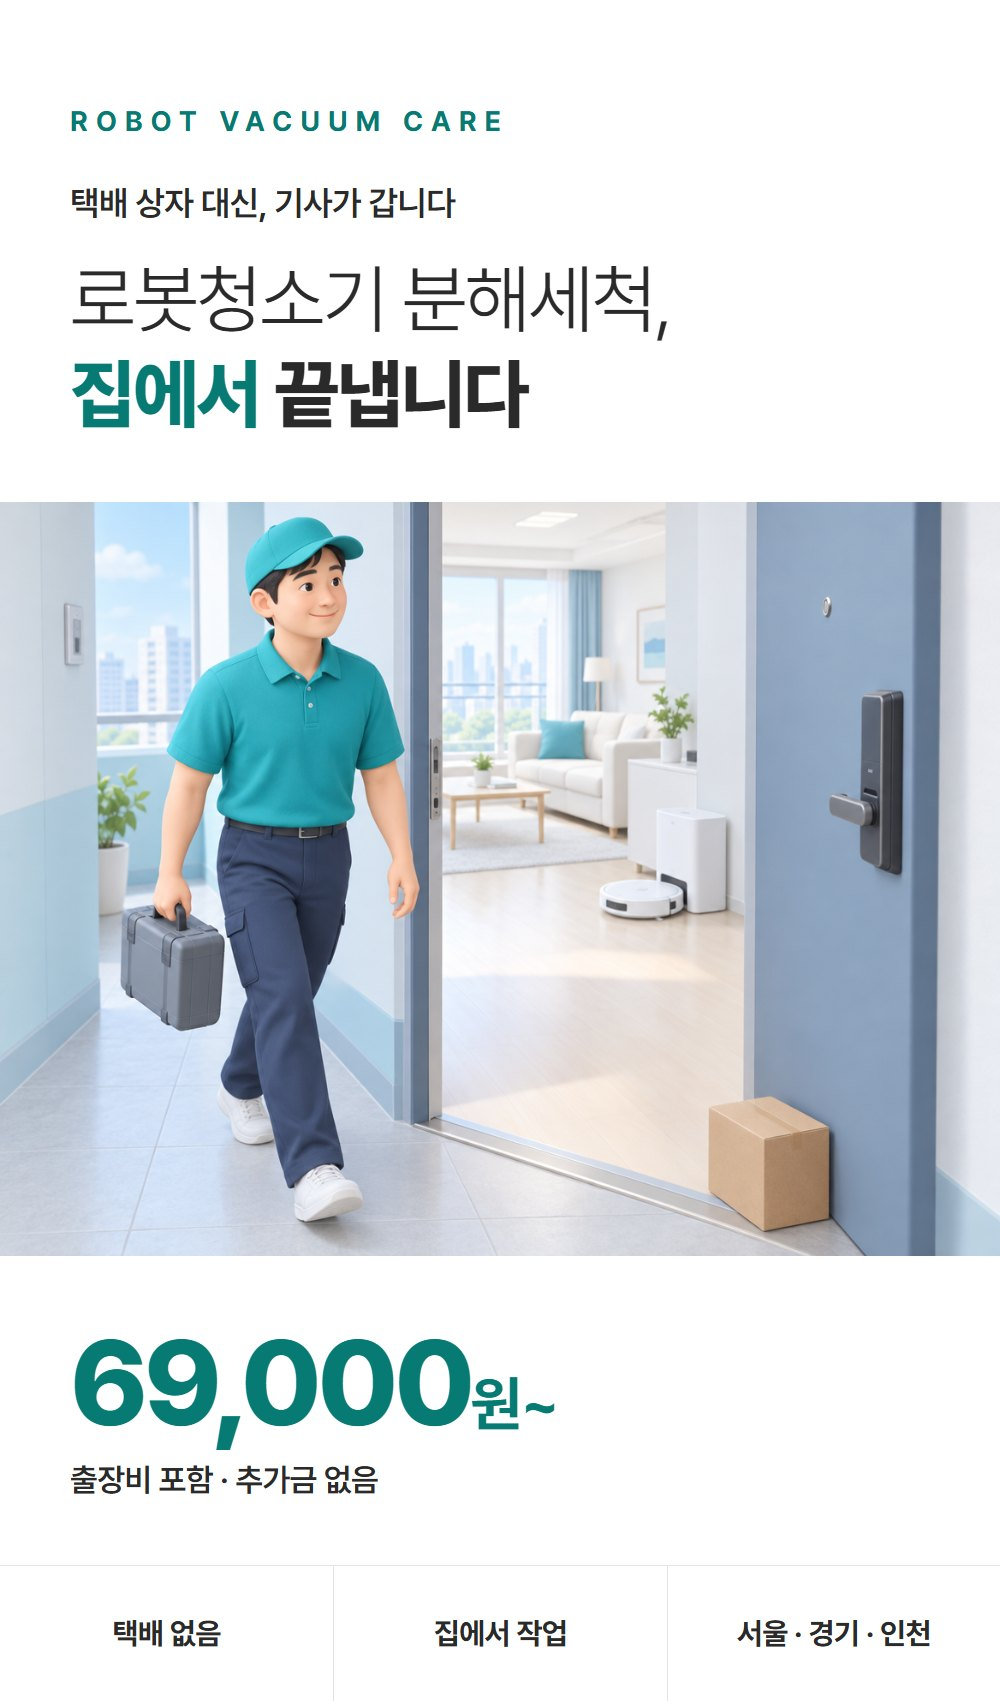
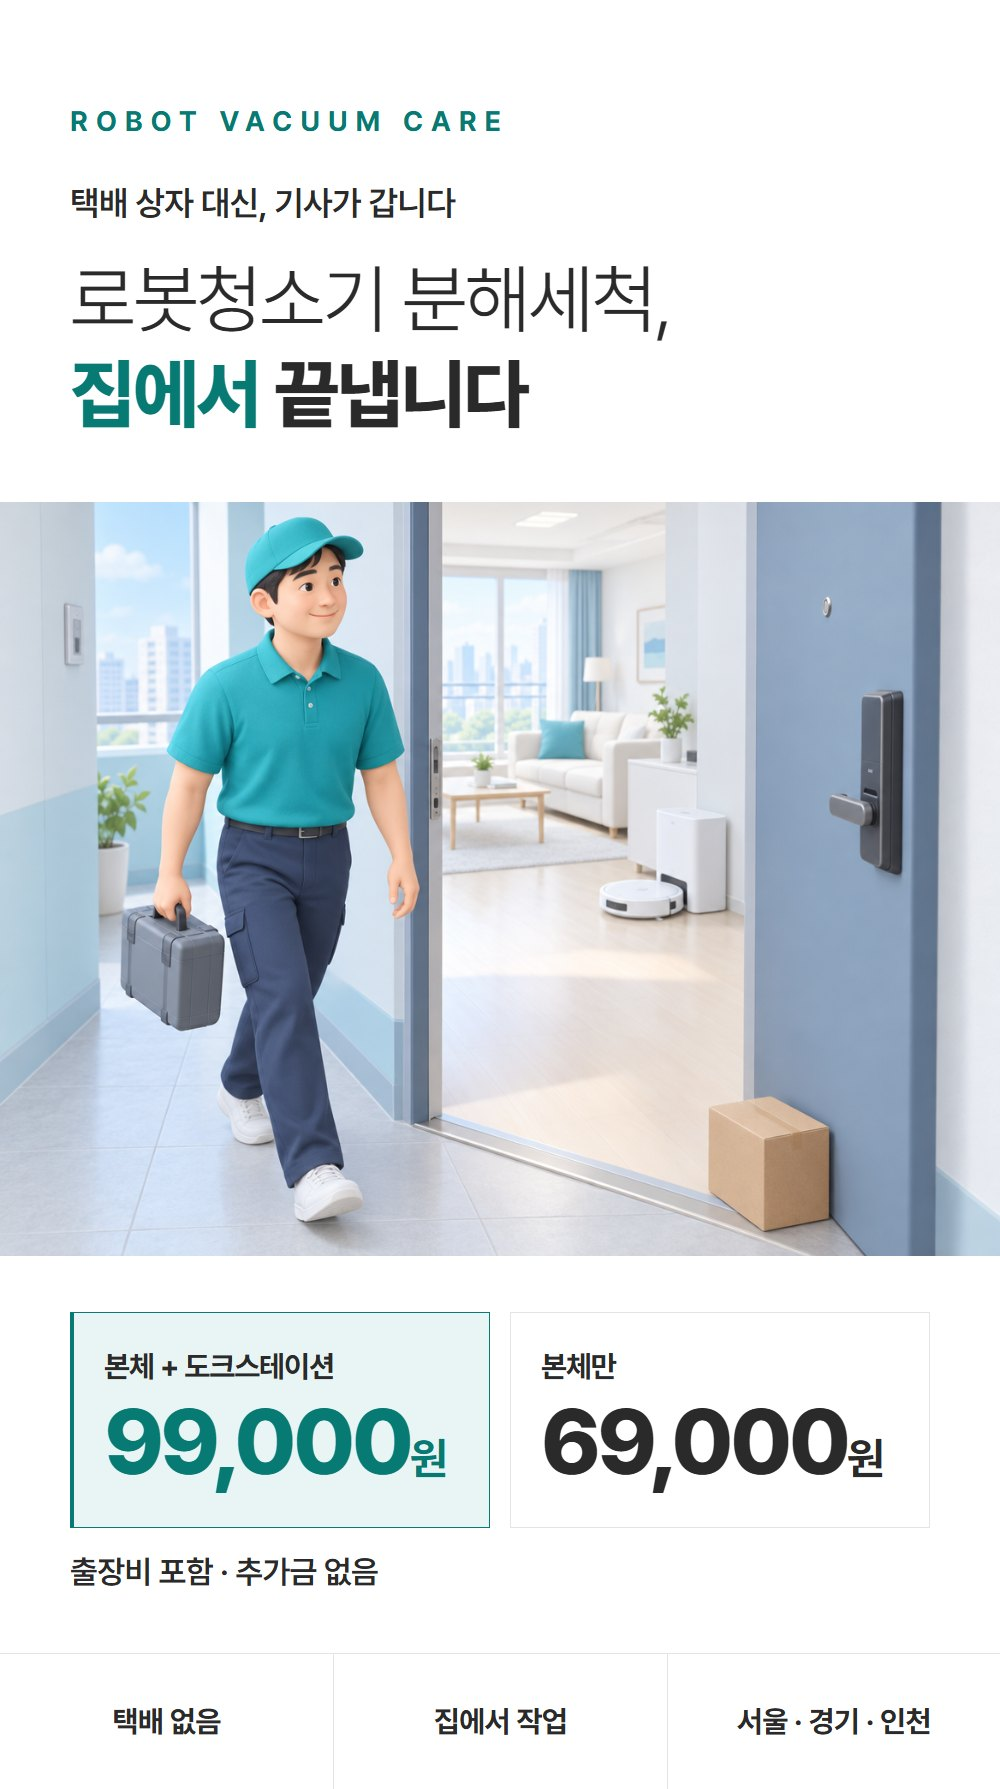
feat(landing): 로봇청소기 랜딩 주력 코스를 본체 + 도크스테이션 99,000원으로 변경
- robot.html: 제목 · 설명 · 대체 문구를 99,000 먼저로, 폼 세척 범위 순서 dock → body → ask
- 섹션 이미지 s1 · s2 · s5 · s7 · s10 · s11 · s12 · s13 다시 제작
  - 가격 두 칸은 같은 크기, 99,000 쪽만 색 · 바탕 · 테두리로 강조
  - s10 · s11 은 선 그림 분해도 + 지시선, s7 은 2단 비교

diff --git a/public/robot.html b/public/robot.html
@@ -3,11 +3,11 @@
 <head>
 <meta charset="utf-8">
 <meta name="viewport" content="width=device-width,initial-scale=1,viewport-fit=cover">
-<title>올데이케어 로봇청소기 분해세척 | 집으로 방문 · 69,000원 출장비 포함</title>
-<meta name="description" content="로봇청소기 분해세척, 택배 없이 기사가 집으로 방문합니다. 본체 69,000원, 본체 + 도크스테이션 99,000원. 출장비 포함 추가금 없음. 서울 · 경기 · 인천 1866-2003">
+<title>올데이케어 로봇청소기 분해세척 | 도크스테이션까지 99,000원 · 집으로 방문</title>
+<meta name="description" content="로봇청소기 분해세척, 택배 없이 기사가 집으로 방문합니다. 본체 + 도크스테이션 99,000원, 본체만 69,000원. 출장비 포함 추가금 없음. 서울 · 경기 · 인천 1866-2003">
 <meta name="robots" content="noindex">
-<meta property="og:title" content="로봇청소기 분해세척 — 기사가 집으로 갑니다 · 69,000원">
-<meta property="og:description" content="택배 없이 방문 분해세척. 본체 69,000원 / 본체 + 도크스테이션 99,000원. 출장비 포함.">
+<meta property="og:title" content="로봇청소기 분해세척 — 스테이션까지 집에서 99,000원">
+<meta property="og:description" content="택배 없이 방문 분해세척. 본체 + 도크스테이션 99,000원 / 본체만 69,000원. 출장비 포함.">
 <link rel="stylesheet" href="https://cdn.jsdelivr.net/npm/pretendard@1.3.9/dist/web/static/pretendard.min.css">
 <style>
 :root{--point:#0E9C94;--deep:#087A74;--dark:#05605B;--soft:#E9F5F4;--ink:#2A2A2A;--line:#E4E4E1;--sub:#8A8A86}
@@ -103,7 +103,7 @@ footer b{color:#4A5263}
 </header>
 
 <!-- 이미지 파일: public/img/robot/s1.jpg ~ s13.jpg -->
-<div class="sec" data-img="img/robot/s1.jpg" data-alt="로봇청소기 분해세척, 택배 상자 대신 기사가 갑니다. 집으로 방문, 본체 69,000원, 출장비 포함" data-label="S1 히어로"></div>
+<div class="sec" data-img="img/robot/s1.jpg" data-alt="로봇청소기 분해세척, 택배 상자 대신 기사가 갑니다. 집으로 방문, 본체와 도크스테이션 99,000원, 출장비 포함" data-label="S1 히어로"></div>
 
 <a class="tel-band" href="tel:18662003">
   <span class="ico"><i></i><svg width="26" height="26" viewBox="0 0 24 24" fill="#087A74"><path d="M6.6 10.8a15.1 15.1 0 0 0 6.6 6.6l2.2-2.2a1 1 0 0 1 1-.25 11.4 11.4 0 0 0 3.6.57 1 1 0 0 1 1 1V20a1 1 0 0 1-1 1A17 17 0 0 1 3 4a1 1 0 0 1 1-1h3.5a1 1 0 0 1 1 1c0 1.25.2 2.45.57 3.57a1 1 0 0 1-.25 1z"/></svg></span>
@@ -119,7 +119,7 @@ footer b{color:#4A5263}
       <div class="f2">
         <div class="f"><label>성함</label><input name="name" autocomplete="name" placeholder="홍길동"></div>
         <div class="f"><label>세척 범위</label>
-          <select name="svc"><option value="">선택해 주세요</option><option value="body">본체만 69,000원</option><option value="dock">본체 + 도크스테이션 99,000원</option><option value="ask">잘 모르겠어요</option></select></div>
+          <select name="svc"><option value="">선택해 주세요</option><option value="dock">본체 + 도크스테이션 99,000원 (추천)</option><option value="body">본체만 69,000원</option><option value="ask">잘 모르겠어요</option></select></div>
       </div>
       <div class="f"><label>연락처</label><input name="phone" type="tel" inputmode="numeric" autocomplete="tel" placeholder="010-0000-0000"></div>
       <div class="f2">
@@ -135,7 +135,7 @@ footer b{color:#4A5263}
   </div>
 </section>
 
-<div class="sec" data-img="img/robot/s2.jpg" data-alt="가격. 로봇청소기 본체 69,000원, 본체와 도크스테이션 99,000원. 출장비 포함, 추가금 없음. 서울 경기 인천. 브랜드 상관없이 방문" data-label="S2 가격"></div>
+<div class="sec" data-img="img/robot/s2.jpg" data-alt="가격. 추천 코스 본체와 도크스테이션 99,000원, 본체만 69,000원. 출장비 포함, 추가금 없음. 서울 경기 인천. 브랜드 상관없이 방문" data-label="S2 가격"></div>
 <div class="sec" data-img="img/robot/s3.jpg" data-alt="요즘 이런 순간 있으신가요. 돌고 나면 쿰쿰한 냄새, 소리는 큰데 먼지가 그대로, 스테이션을 열면 쉰내" data-label="S3 프롤로그 질문"></div>
 <div class="sec" data-img="img/robot/s4.jpg" data-alt="매일 바닥을 닦는 로봇청소기, 그 속은 누가 닦나요. 먼지와 머리카락과 물때가 안쪽에 쌓입니다" data-label="S4 왜 필요한가 1 단면"></div>
 <div class="sec" data-img="img/robot/s5.jpg" data-alt="속을 열어보면. 브러시에 감긴 머리카락, 막힌 필터, 냄새나는 물걸레, 오수통 찌꺼기" data-label="S5 왜 필요한가 2 속"></div>
@@ -152,7 +152,7 @@ footer b{color:#4A5263}
   <span><small>출장비 포함 · 서울 경기 인천</small><b>1866-2003</b></span>
 </a>
 <div class="sec" data-img="img/robot/s10.jpg" data-alt="본체 분해도. 메인브러시, 사이드브러시, 먼지통, 필터, 물걸레 패드, 바퀴, 센서 창과 충전 단자" data-label="S10 본체 분해도"></div>
-<div class="sec" data-img="img/robot/s11.jpg" data-alt="도크스테이션 분해도. 오수통, 청수통, 먼지 비움 통로, 세척 트레이. 본체와 함께 99,000원" data-label="S11 스테이션 분해도"></div>
+<div class="sec" data-img="img/robot/s11.jpg" data-alt="냄새의 시작은 대부분 스테이션입니다. 오수통, 청수통, 먼지 비움 통로, 세척 트레이. 30,000원 더하면 스테이션까지, 본체와 함께 99,000원" data-label="S11 스테이션 분해도"></div>
 <div class="sec" data-img="img/robot/s12.jpg" data-alt="세척 전후 비교. 이해를 돕기 위한 연출 이미지입니다" data-label="S12 전후"></div>
 <div class="sec" data-img="img/robot/s13.jpg" data-alt="그날 저녁, 로봇청소기가 다시 거실을 돕니다. 이번엔 냄새 없이. 올데이케어의 약속, 이번 주에 집으로 부르세요" data-label="S13 에필로그 · 약속"></div>
 
@@ -165,7 +165,7 @@ footer b{color:#4A5263}
       <div class="f2">
         <div class="f"><label>성함</label><input name="name" autocomplete="name" placeholder="홍길동"></div>
         <div class="f"><label>세척 범위</label>
-          <select name="svc"><option value="">선택해 주세요</option><option value="body">본체만 69,000원</option><option value="dock">본체 + 도크스테이션 99,000원</option><option value="ask">잘 모르겠어요</option></select></div>
+          <select name="svc"><option value="">선택해 주세요</option><option value="dock">본체 + 도크스테이션 99,000원 (추천)</option><option value="body">본체만 69,000원</option><option value="ask">잘 모르겠어요</option></select></div>
       </div>
       <div class="f"><label>연락처</label><input name="phone" type="tel" inputmode="numeric" autocomplete="tel" placeholder="010-0000-0000"></div>
       <div class="f2">
